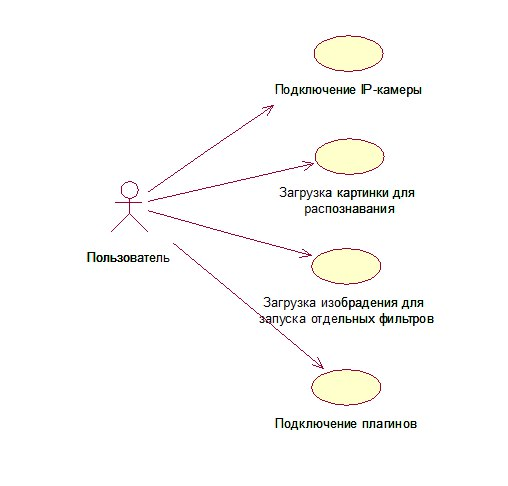
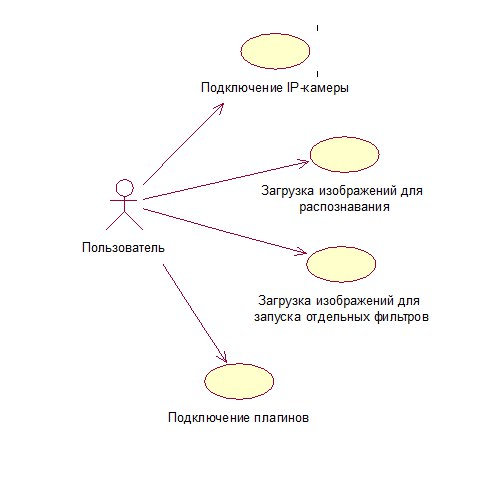
working on second sec

diff --git a/src/sec_func_requirements.tex b/src/sec_func_requirements.tex
@@ -34,10 +34,43 @@
 \end{itemize}
 
 \subsubsection{}
-Загрузка картинки для распознавания. Требования:
+Загрузка изображений для распознавания. Требования:
 \begin{itemize}
-	\item Возможность загрузить изображение на сервер для распознавания.
-	\item Поддержка форматов PNG и JPEG.
+	\item Возможность загрузить изображение на сервер для распознавания
+	\item Поддержка форматов PNG и JPEG
 \end{itemize}
 
+\subsubsection{}
+Загрузка изображений для запуска отельных фильтров. Требования:
+\begin{itemize}
+	\item Возможность загрузить изображение на сервер для запуска отдельных фильтров
+	\item Поддержка форматов PNG и JPEG
+\end{itemize}
 
+\subsubsection{}
+Подключение плагинов для обработки результатов распознавания. Требования:
+\begin{itemize}
+	\item Плагины подключаются путем копирования dll файлов в директорию plugins
+	\item для создания плагинов требуется используя библиотеку реализовать интерфейс обработчика результатов на платформе \dotnet{}
+\end{itemize}
+
+\subsubsection{}
+Процесс распознавания номеров. Требования:
+\begin{itemize}
+	\item Сервер должен обрабатывать видеопоток от IP камер
+	\item При распознании номера результаты должны быть переданны подключенным плагинам
+\end{itemize}
+
+\subsubsection{}
+Пользовательский интерфейс програмного средства.
+\begin{itemize}
+	\item Пользовательский интерфейс должен быть Web страницей
+	\item Должны поддерживаться Google Chrome и Firefox последних версий.
+	\item Должны быть возможность конфигурирования сервера через командную строку.
+\end{itemize}
+
+\subsubsection{}
+Совместимость программного средства
+\begin{itemize}
+	\item Требуется совместимость с Windows 10
+\end{itemize}
